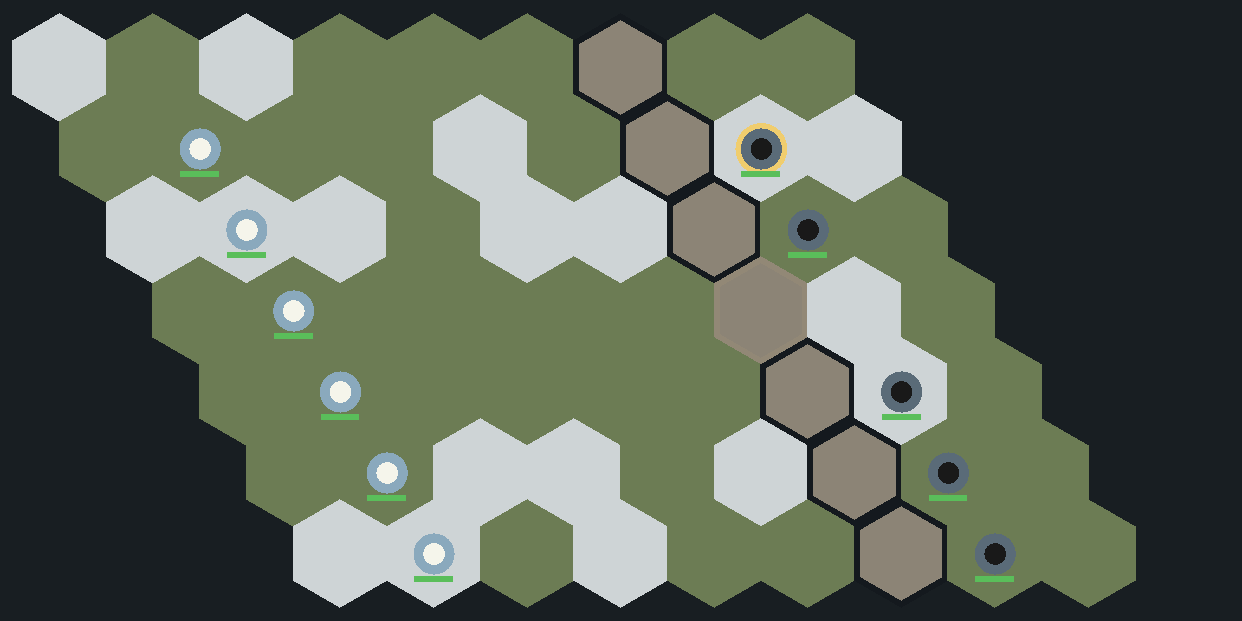
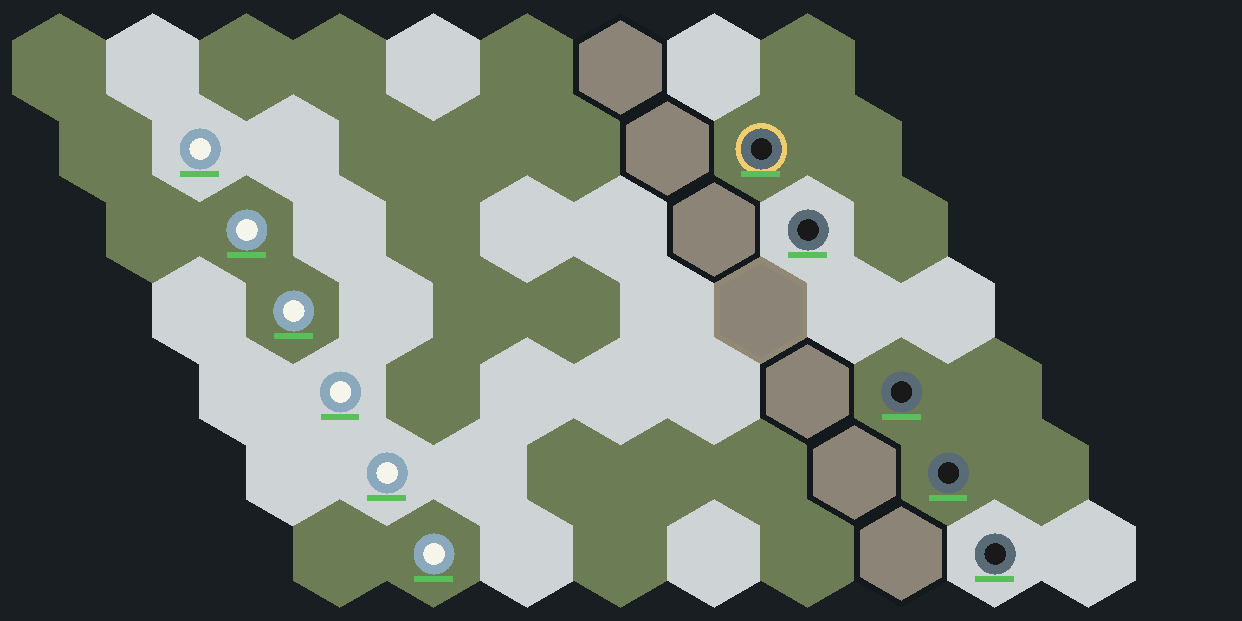
Лоббирование в окне голосования, смоук-тест голосования

diff --git a/Assets/IronThrone/Scripts/Unity/IronThroneGame.cs b/Assets/IronThrone/Scripts/Unity/IronThroneGame.cs
@@ -617,7 +617,30 @@ namespace IronThrone.Unity
                 GUILayout.Label(law != null ? law.name : vote.lawId, _h2);
                 GUILayout.Label(law?.description ?? "", _body);
                 GUILayout.Label($"Спонсор: {_state.FactionName(vote.sponsor)} · стоимость влияния: {law?.voteCost ?? 0}", _small);
-                GUILayout.Space(8);
+                var player = _state.Faction(_state.PlayerFaction);
+                if (player != null)
+                {
+                    GUILayout.Label($"Мой голос: {PoliticsSystem.VotePower(_state, player)} · влияние: {player.influence}", _small);
+                    GUILayout.Space(6);
+                    GUILayout.Label("Лоббирование (влияние → голоса в пользу закона)", _h2);
+                    foreach (var other in _state.Factions.Values.Where(x => x.alive && x.id != player.id).OrderBy(x => x.def.name))
+                    {
+                        int unit = PoliticsSystem.LobbyUnitCost(_state, player, other);
+                        GUILayout.BeginHorizontal();
+                        GUILayout.Label($"{other.def.name} · голос {PoliticsSystem.VotePower(_state, other)}", _small);
+                        GUILayout.FlexibleSpace();
+                        GUI.enabled = player.influence >= unit;
+                        if (GUILayout.Button($"Лобби {unit}", _button, GUILayout.Width(130)))
+                        {
+                            if (PoliticsSystem.Lobby(_state, player, other.id, unit, out var lerr))
+                                Toast($"{other.def.name} склоняется к «за»");
+                            else Toast(lerr);
+                        }
+                        GUI.enabled = true;
+                        GUILayout.EndHorizontal();
+                    }
+                    GUILayout.Space(8);
+                }
                 GUILayout.BeginHorizontal();
                 if (GUILayout.Button("ЗА", _tabActive, GUILayout.Height(36)))
                 {

diff --git a/Tools/UnitySmoke/Program.cs b/Tools/UnitySmoke/Program.cs
@@ -172,6 +172,26 @@ namespace IronThrone.UnitySmoke
                 Call(game, "OnGUI");
             });
 
+            Step("голосование и лобби", () =>
+            {
+                var state = (GameState)Get(game, "_state");
+                var player = state.Faction(state.PlayerFaction);
+                player.influence += 60;
+                var law = PoliticsSystem.AvailableLaws(state, player).FirstOrDefault();
+                if (law == null) throw new Exception("нет доступных законов");
+                PoliticsSystem.ProposeLaw(state, player, law.id, out var err);
+                if (state.PendingVote == null) throw new Exception("голосование не открылось: " + err);
+                var other = state.Factions.Values.First(x => x.alive && x.id != player.id);
+                PoliticsSystem.Lobby(state, player, other.id, 8, out _);
+                Set(game, "_tab", 2);
+                Call(game, "OnGUI");
+                PoliticsSystem.SetPlayerVote(state, "yes");
+                PoliticsSystem.ResolveVote(state, autoPlayer: true);
+                if (state.PendingVote != null) throw new Exception("голосование не закрылось");
+                Call(game, "OnGUI");
+                Console.WriteLine($"    закон «{law.name}»: {(state.ActiveLaws.Any(l => l.id == law.id) ? "принят" : "отклонён")}");
+            });
+
             Step("тактический бой", () =>
             {
                 var state = (GameState)Get(game, "_state");
